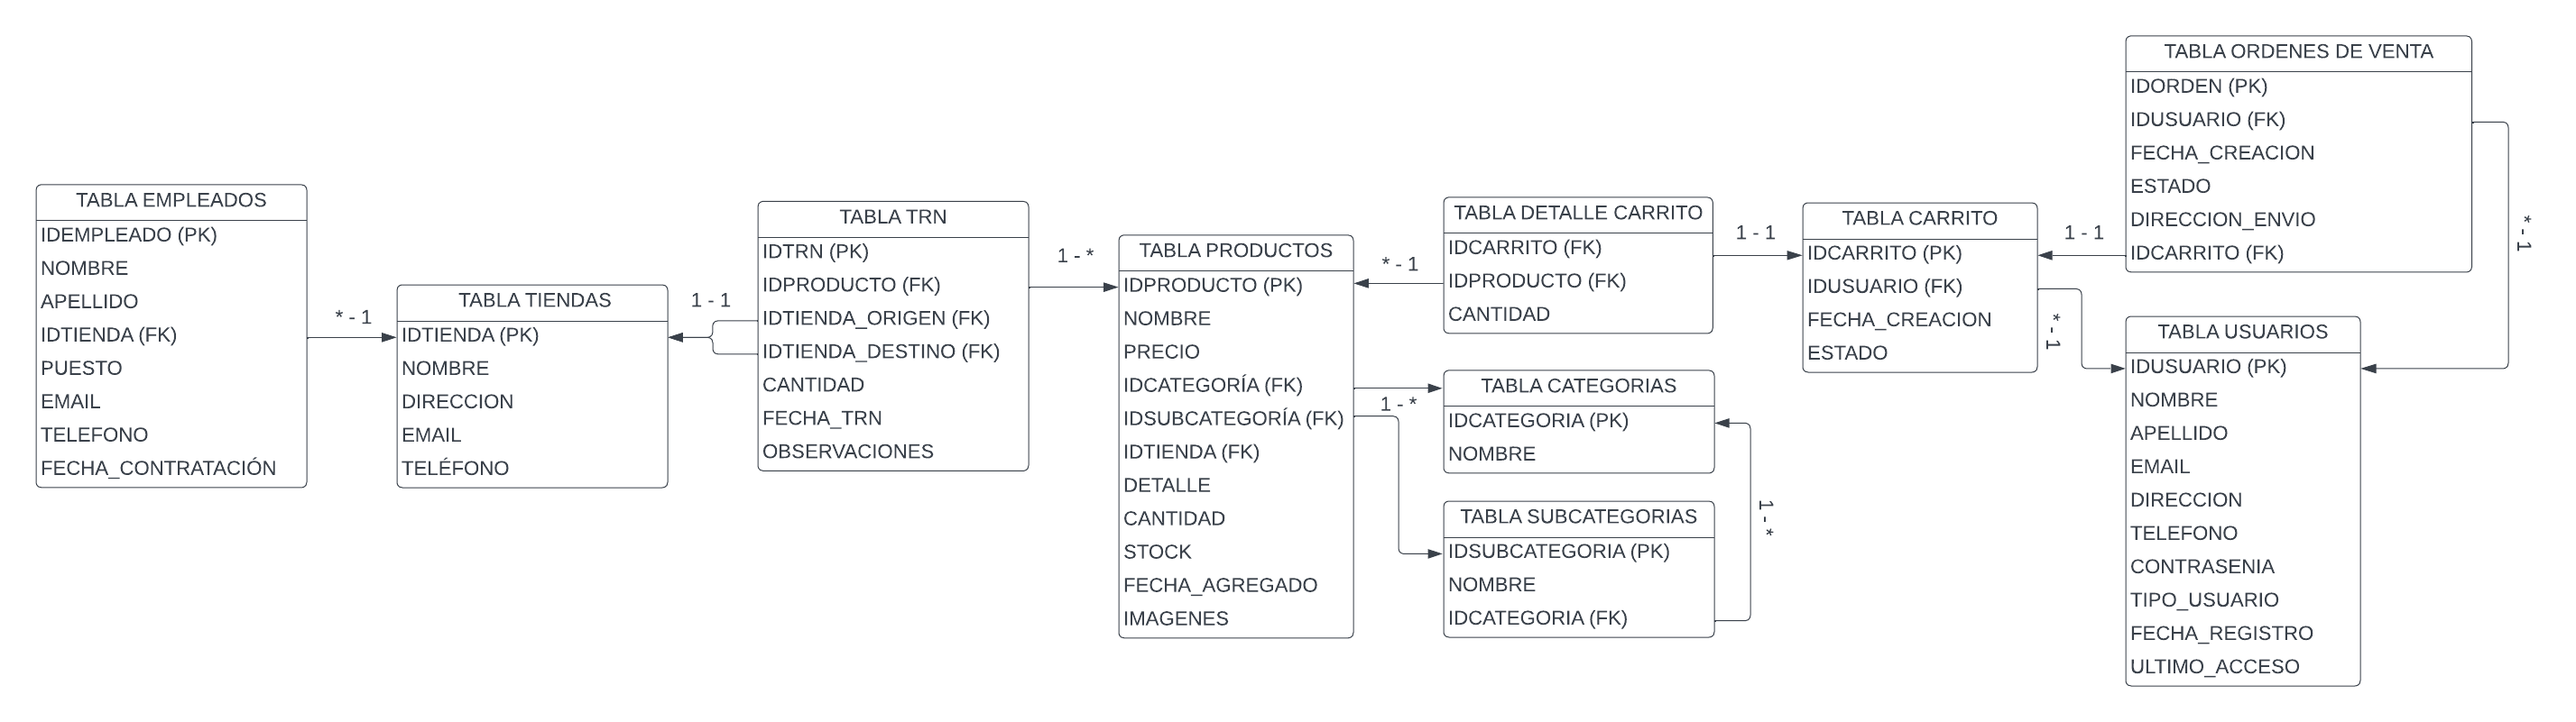
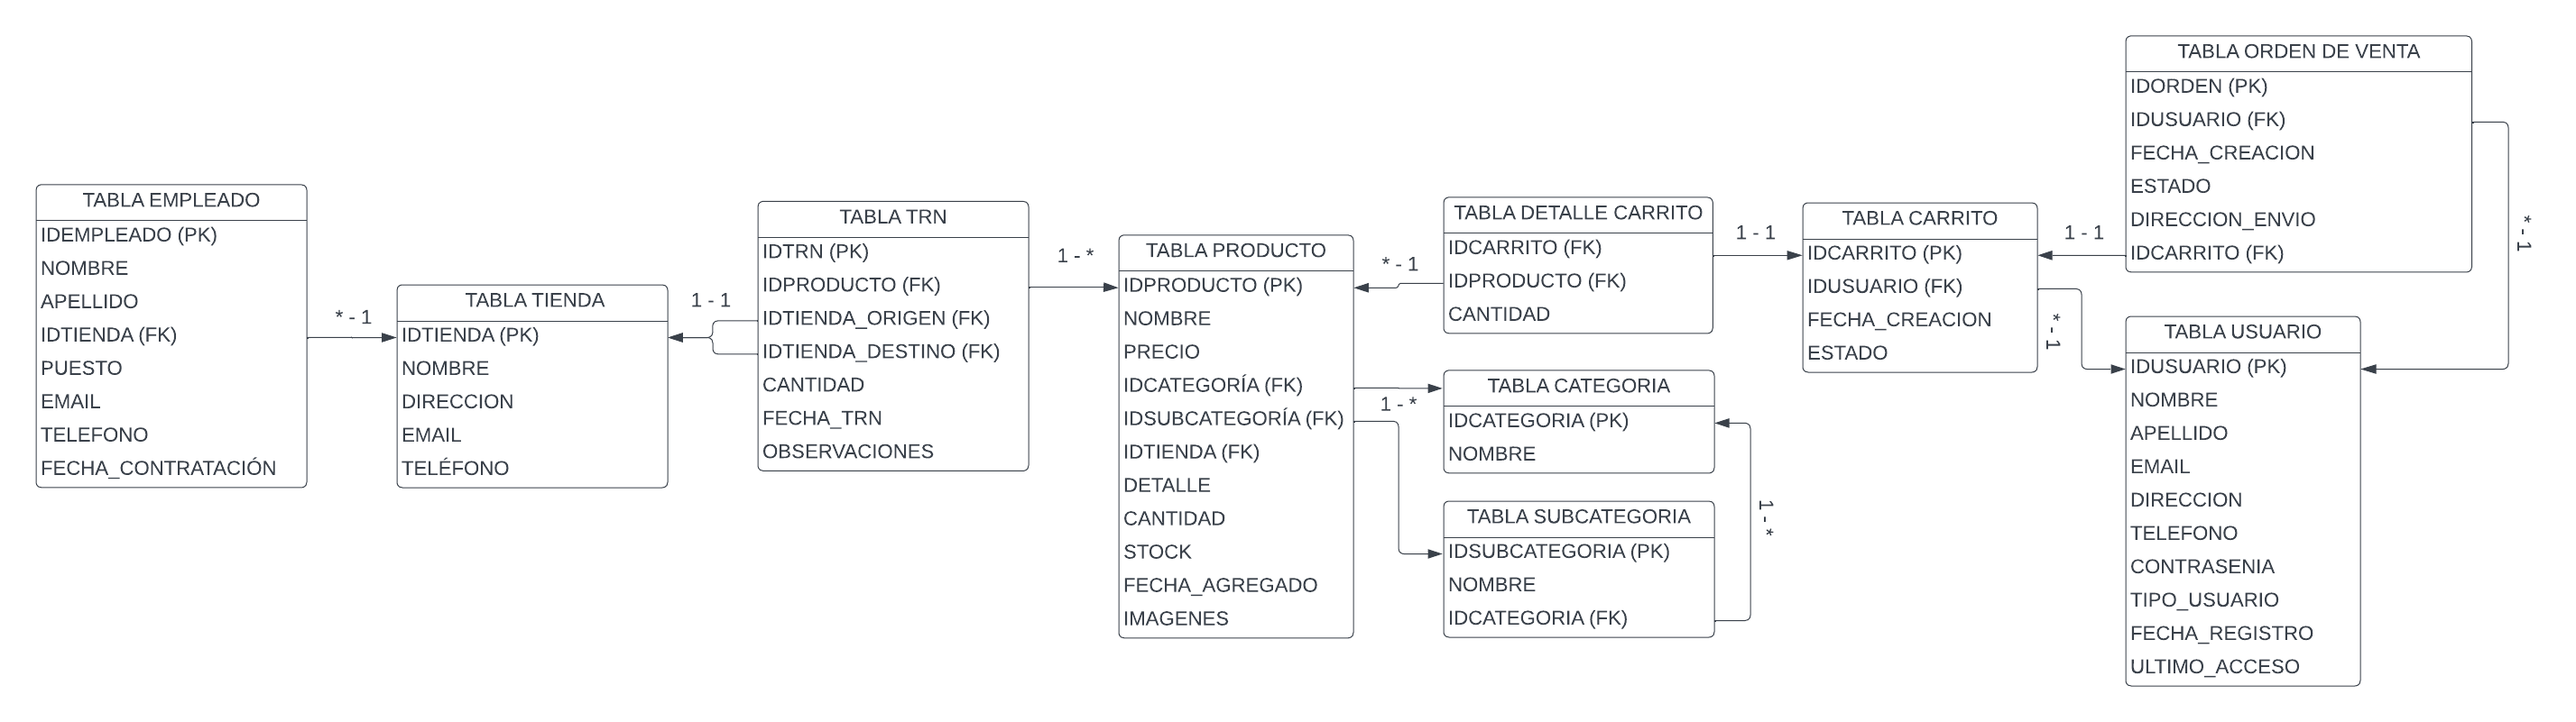
Se agregan tablas faltantes al readme

diff --git a/README.md b/README.md
@@ -39,7 +39,7 @@ experiencia fluida tanto para los clientes como para los administradores del com
 ## Listado de tablas y descripcion
 | Tabla         | Columna            | Tipo de Datos                         |
 | ------------- | ------------------ |                                  ---: |
-| USUARIOS      | IDUSUARIO          | INT                                   |
+| USUARIO       | IDUSUARIO          | INT                                   |
 |               | NOMBRE             | VARCHAR(100) DEFAULT 'CLIENTE'        |
 |               | APELLIDO           | VARCHAR(100) DEFAULT 'GENERICO'       |
 |               | EMAIL              | VARCHAR(100) UNIQUE NOT NULL          |
@@ -53,19 +53,96 @@ experiencia fluida tanto para los clientes como para los administradores del com
 
 | Tabla         | Columna            | Tipo de Datos                         |
 | ------------- | ------------------ |                                  ---: |
+| PRODUCTO      | IDPRODUCTO         | INT                                   |
+|               | NOMBRE             | VARCHAR(100)                          |
+|               | PRECIO             | INT                                   |
+|               | IDCATEGORIA        | INT                                   |
+|               | IDSUBCATEGORIA     | INT                                   |
+|               | IDTIENDA           | INT                                   |
+|               | DETALLE            | VARCHAR(100)                          |
+|               | CANTIDAD           | INT                                   |
+|               | STOCK              | BOOLEAN                               |
+|               | FECHA_AGREGADO     | DATETIME                              |
+|               | IMAGENES           | VARCHAR(100)                          |
+
+
+| Tabla         | Columna            | Tipo de Datos                         |
+| ------------- | ------------------ |                                  ---: |
+| CARRITO       | IDCARRITO          | INT                                   |
+|               | IDUSUARIO          | INT                                   |
+|               | FECHA_CREACION     | DATETIME                              |
+|               | ESTADO             | BOOLEAN                               |
+
+
+| Tabla           | Columna            | Tipo de Datos                         |
+| --------------- | ------------------ |                                  ---: |
+| DETALLE_CARRITO | IDCARRITO          | INT                                   |
+|                 | IDPRODUCTO         | INT                                   |
+|                 | CANTIDAD           | INT                                   |
+
+
+| Tabla         | Columna            | Tipo de Datos                         |
+| ------------- | ------------------ |                                  ---: |
 | EMPLEADO      | IDEMPLEADO         | INT                                   |
 |               | NOMBRE             | VARCHAR(100)                          |
 |               | APELLIDO           | VARCHAR(100)                          |
 |               | IDTIENDA           | INT                                   |
 |               | PUESTO             | VARCHAR(100)                          |
+|               | SUELDO             | INT                                   |
 |               | EMAIL              | VARCHAR(100) UNIQUE NOT NULL          |
 |               | TELEFONO           | VARCHAR(100) NOT NULL                 |
 |               | FECHA_CONTRATACION | DATETIME                              |
 
 
+| Tabla         | Columna            | Tipo de Datos                         |
+| ------------- | ------------------ |                                  ---: |
+| TIENDA        | IDTIENDA           | INT                                   |
+|               | NOMBRE             | VARCHAR(100)                          |
+|               | DIRECCION          | VARCHAR(255)                          |
+|               | EMAIL              | VARCHAR(100) UNIQUE NOT NULL          |
+|               | TELEFONO           | VARCHAR(100) NOT NULL                 |
+
+
+| Tabla         | Columna            | Tipo de Datos                         |
+| ------------- | ------------------ |                                  ---: |
+| TRN           | IDTRN              | INT                                   |
+|               | IDPRODUCTO         | INT                                   |
+|               | IDTIENDA_ORIGEN    | INT                                   |
+|               | IDTIENDA_DESTINO   | INT                                   |
+|               | CANTIDAD           | INT                                   |
+|               | FECHA_TRN          | DATETIME                              |
+|               | OBSERVACIONES      | VARCHAR(100)                          |
+
+
+| Tabla         | Columna            | Tipo de Datos                         |
+| ------------- | ------------------ |                                  ---: |
+| CATEGORIA     | IDCATEGORIA | INT |
+|               | NOMBRE | VARCHAR(100)    |
+
+
+| Tabla         | Columna            | Tipo de Datos                         |
+| ------------- | ------------------ |                                  ---: |
+| SUBCATEGORIA  | IDSUBCATEGORIA     | INT                                   |
+|               | NOMBRE             | VARCHAR(100)                          |
+|               | IDCATEGORIA        | INT                                   |
+
+
+| Tabla          | Columna            | Tipo de Datos                         |
+| -------------- | ------------------ |                                  ---: |
+| ORDENDEVENTA   | IDORDEN            | INT                                   |
+|                | IDUSUARIO          | INT                                   |
+|                | FECHA_CREACION     | DATETIME                              |
+|                | ESTADO             | BOOLEAN                               |
+|                | DIRECCION_ENVIO    | VARCHAR(255)                          |
+|                | IDCARRITO          | INT                                   |
+
 ## Estructura e ingesta de datos
+* Se realiza principalmente por medio del archivo population.sql
+* La carga de la tabla orden de venta se realiza por medio de un csv colocado en el directorio ./structure/data-csv
 
 ## Objetos de la base de datos
+### Documentacion de Vistas
+### Vista: 
 
 ## Roles y permisos
 
